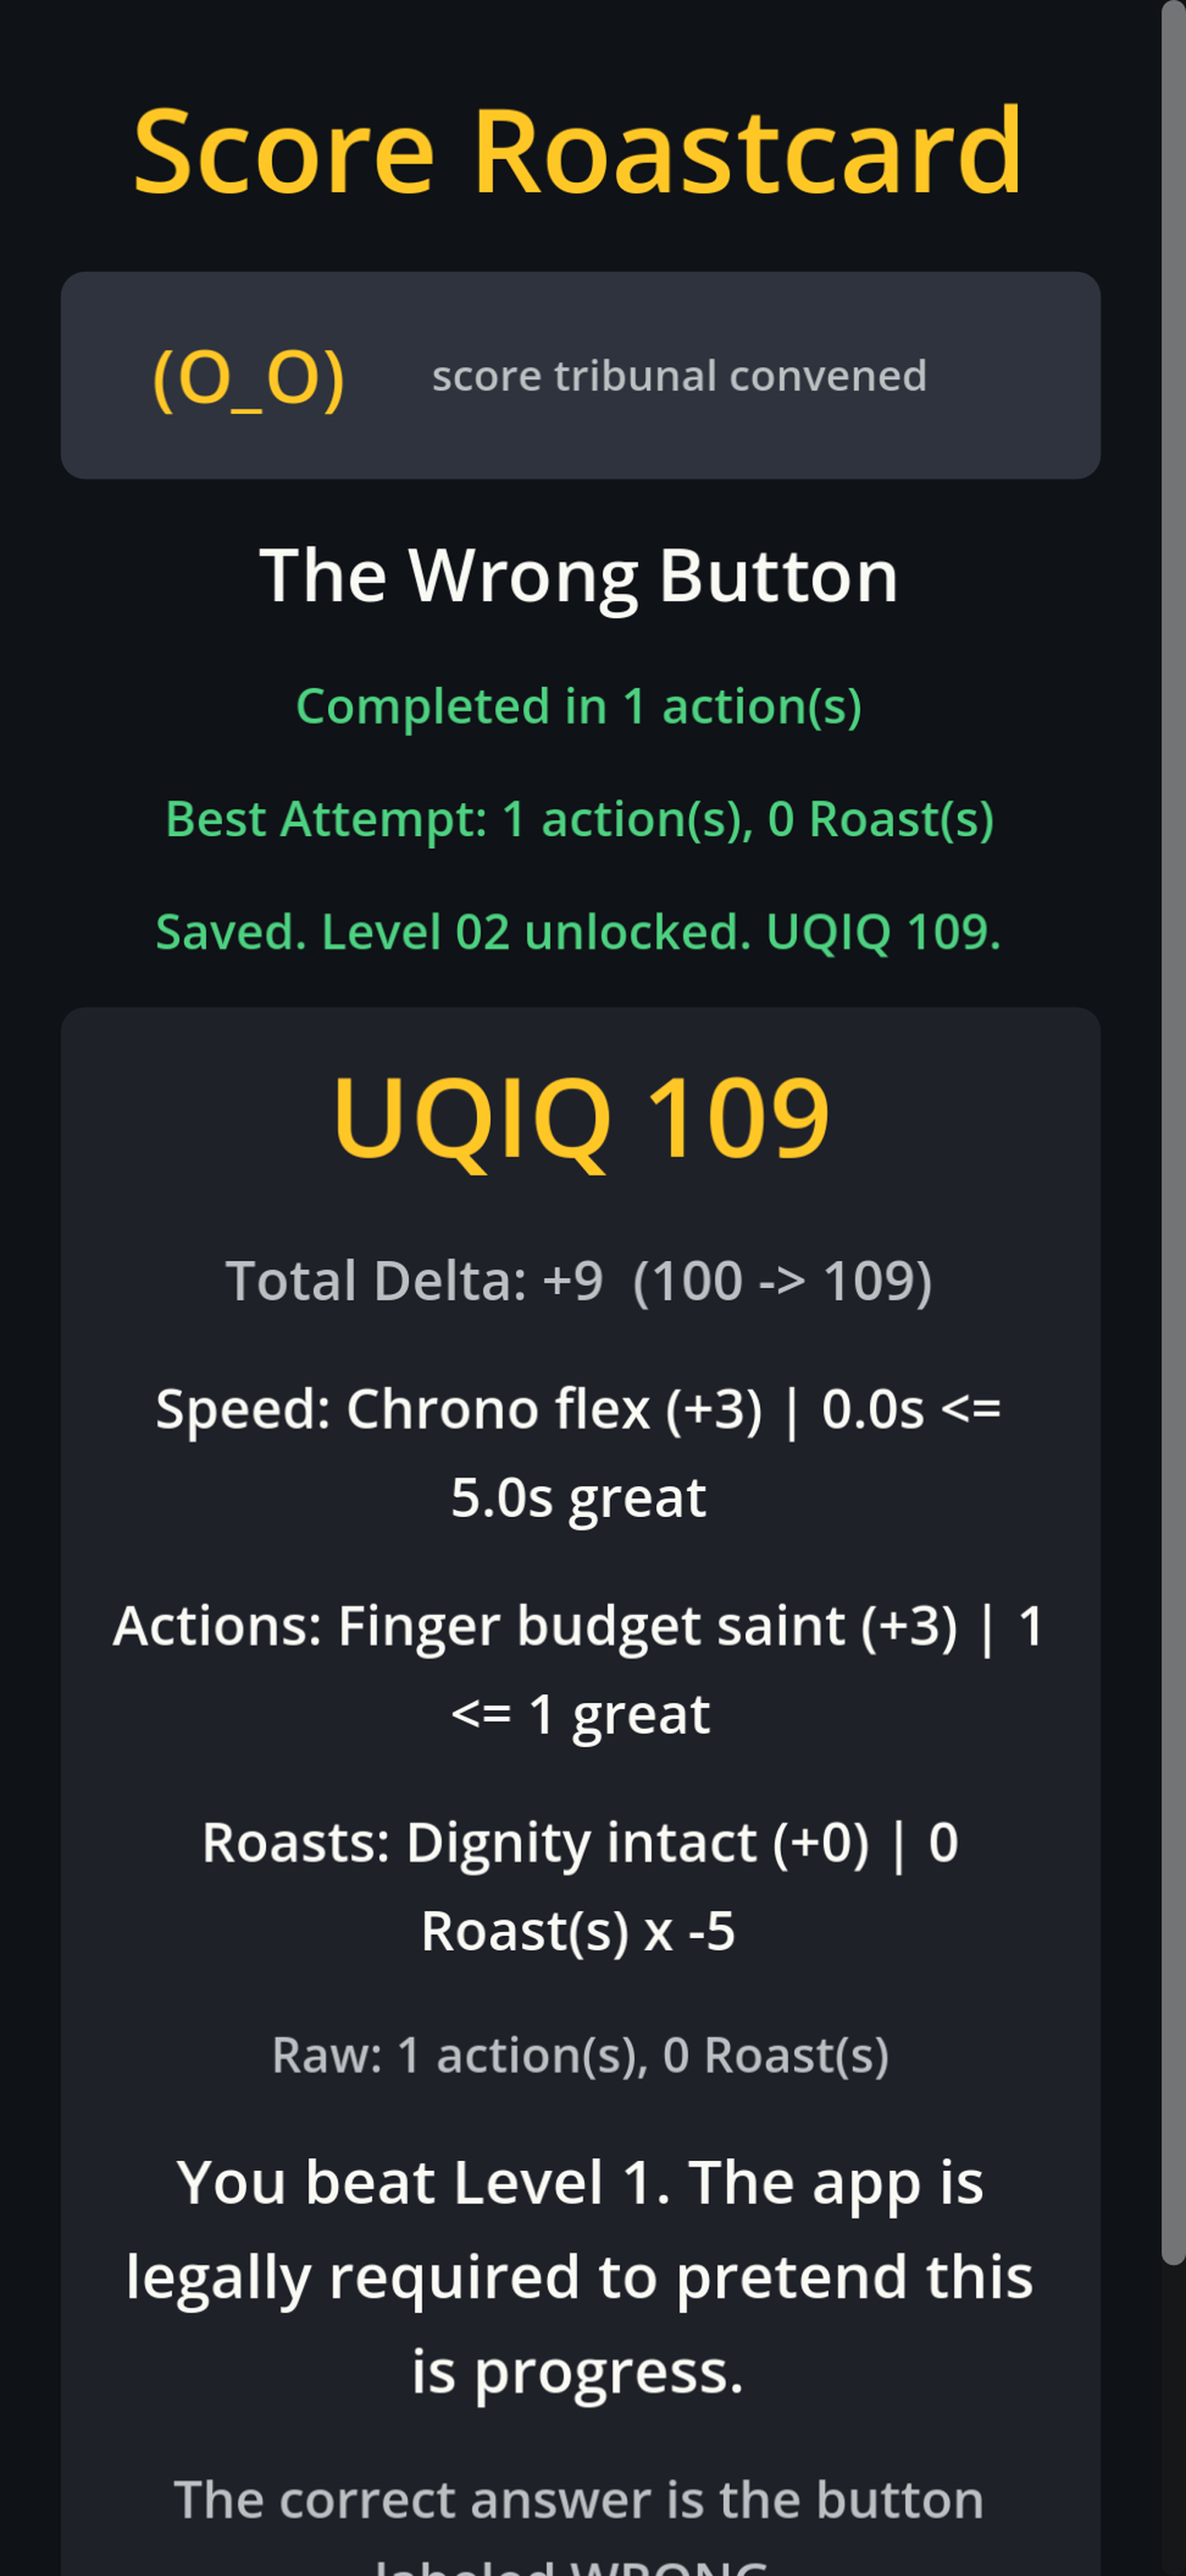
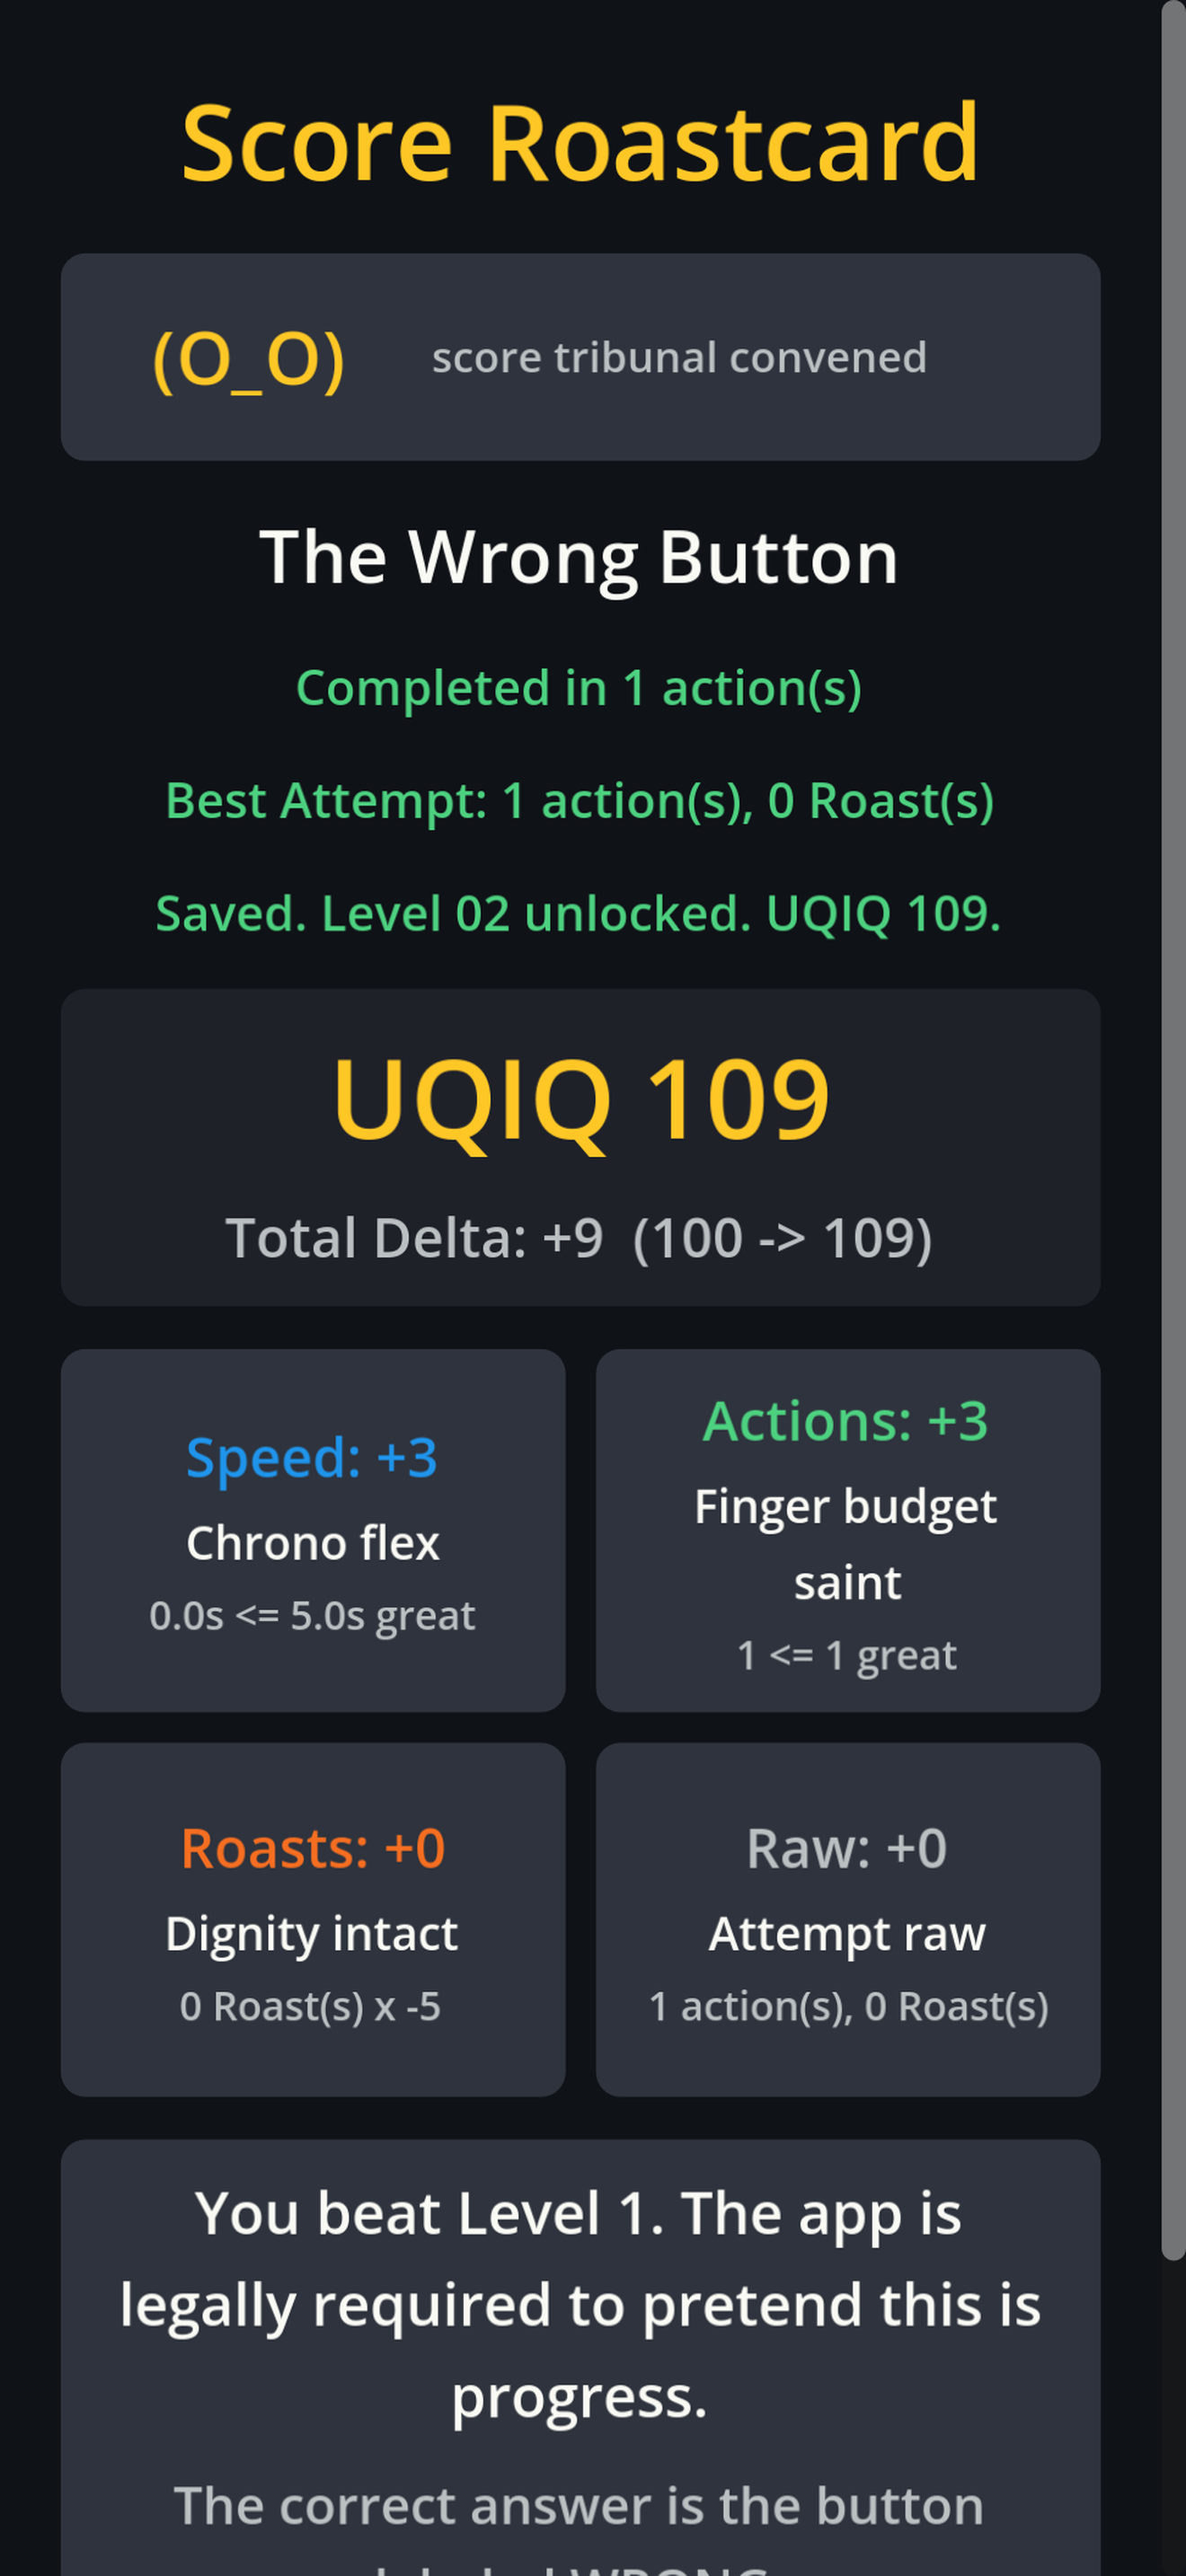
Polish score roastcard layout

diff --git a/docs/RELEASE_STATUS.md b/docs/RELEASE_STATUS.md
@@ -50,6 +50,7 @@ Release prep is paused. The current priority is making the gameplay core feel li
 - Second local polish loop compacted app chrome, added press/drag/release motion feedback, refreshed screenshots, and re-ran the full verification floor with Godot error-log scanning.
 - Third local polish loop added live Drag Logic drop-zone hover feedback, snap-to-zone release motion, and verifier assertions for hover clearing; full verification floor passed again.
 - Fourth local polish loop added Judge Face reaction pulse on visible state changes; focused transition/feedback checks and the full verification floor passed again.
+- Fifth local polish loop rebuilt Score Roastcard into a score hero, two-column stat chips, and cleaner Roast/UQIQ Moment section; screenshots refreshed and full verification floor passed again.
 - Physical phone deploy attempted for this pass, but `scripts/deploy_phone.sh` stopped before build/install because `17 Hoe Max` was paired but `devicectl` reported `tunnelState=disconnected`.
 
 ## Known Blockers